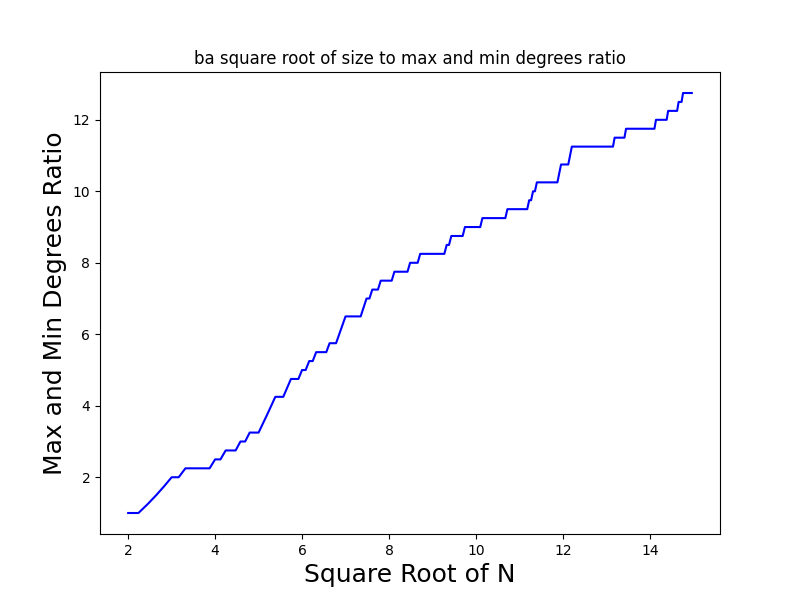
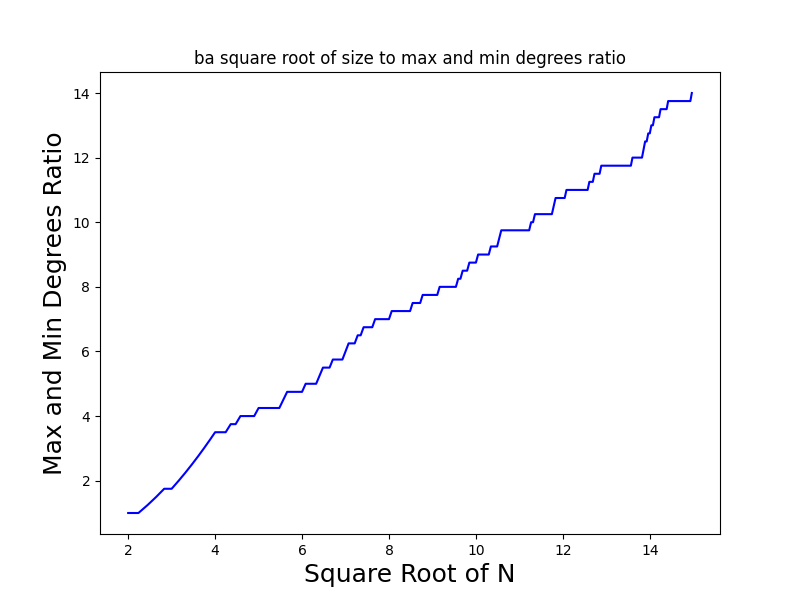
17

diff --git a/Networks3/ba.py b/Networks3/ba.py
@@ -9,6 +9,14 @@ class Node:
     def add_neighbor(self, neighbor: 'Node'):
         self.neighbors.append(neighbor)
 
+    def __str__(self):
+        num_neighbors: int = 0
+        
+        if isinstance(self.neighbors, list):
+            num_neighbors = len(self.neighbors)
+        
+        return str(num_neighbors)
+
 def has_double(selected_indices: np.ndarray) -> bool:
     index_set = set()
 
@@ -175,14 +183,14 @@ def run_ba_model(size: int, kernel_size: int):
 
     print(f"alpha={alpha}")
 
-    bins: list[tuple[float, list[Node]]] = [[]] * (n + 1)
+    bins: list[tuple[float, int, list[Node]]] = [[]] * (n + 1)
 
     for i in range(n + 1):
         threshold: float = min_k * (alpha ** i)
 
         print(f"threshold[{i}]={threshold}")
 
-        bins[i] = (threshold, [])
+        bins[i] = threshold, [], 0
 
     for node in list_nodes:
         k_i: int = len(node.neighbors)
@@ -194,28 +202,40 @@ def run_ba_model(size: int, kernel_size: int):
         index_bin: int = int(log_ratio_i)
 
         if index_bin < len(bins):
-            tup: tuple[float, list[Node]] = bins[index_bin]
+            bin: tuple[float, list[Node], int] = bins[index_bin]
 
-            list_nodes: list[Node] = tup[1]
+            list_nodes: list[Node] = bin[1]
 
             list_nodes.append(node)
         else:
             print("no bin found!")
             return
         
-    bin_densities: dict[int, float] = {}
+    for i in range(len(bins)):
+        bin: tuple[float, list[Node], int] = bins[i]
+        list_nodes: list[Node] = bin[1]
+        sorted_nodes: list[Node] = list(sorted(list_nodes, 
+                           key=lambda node: len(node.neighbors)))
+        
+        if isinstance(sorted_nodes, list) and len(sorted_nodes) > 0:
+            index_median: int = int(len(sorted_nodes) / 2)
+            node_median: Node = sorted_nodes[index_median]
+
+            bins[i] = bin[0], list_nodes, len(node_median.neighbors)
+
+    bin_densities: dict[int, tuple[float, int]] = {}
 
     for i in range(len(bins)):
-        tup: tuple[float, int] = bins[i]
-        next_tup: tuple[float, int] = None
+        bin: tuple[float, list[Node], int] = bins[i]
+        next_bin: tuple[float, list[Node], int] = None
 
         if i < len(bins) - 1:
-            next_tup = bins[i + 1]
+            next_bin = bins[i + 1]
 
-        k_i: float = tup[0]
-        k_next: float = next_tup[0] if next_tup is not None else min_k * (alpha ** (n + 1))
+        k_i: float = bin[0]
+        k_next: float = next_bin[0] if next_bin is not None else min_k * (alpha ** (n + 1))
 
-        list_nodes: list[Node] = tup[1]
+        list_nodes: list[Node] = bin[1]
 
         bin_n: int = len(list_nodes)
 
@@ -223,11 +243,11 @@ def run_ba_model(size: int, kernel_size: int):
 
         if bin_n > 0:
             density: float = bin_n / width
-            bin_densities[i] = density
+            bin_densities[i] = density, bin[2]
 
     print(f"len bin_densities={len(bin_densities)}, len list degrees={len(list_degrees)}")
         
-    k_bins: list[tuple[int, int, float]] = []
+    k_bins: list[tuple[int, float, int]] = []
 
     for i in range(len(list_degrees)):
         k: int = list_degrees[i]
@@ -239,9 +259,12 @@ def run_ba_model(size: int, kernel_size: int):
         bin_index: int = int(log_ratio_k)
 
         if bin_index in bin_densities.keys():
-            k_density: float = bin_densities[bin_index]
+            tup: tuple[float, int] = bin_densities[bin_index]
 
-            k_bins.append((k, bin_index, k_density))
+            k_density: float = tup[0]
+            k_median: int = tup[1]
+
+            k_bins.append((k, k_density, k_median))
         else:
             print(f"No density for k={k} (bin_index={bin_index})")
             return
@@ -255,7 +278,7 @@ def run_ba_model(size: int, kernel_size: int):
         k_bin: tuple[int, int, float] = k_bins[i]
 
         k: int = k_bin[0]
-        density: float = k_bin[2]
+        density: float = k_bin[1]
 
         xs[i] = k
         ys[i] = density
